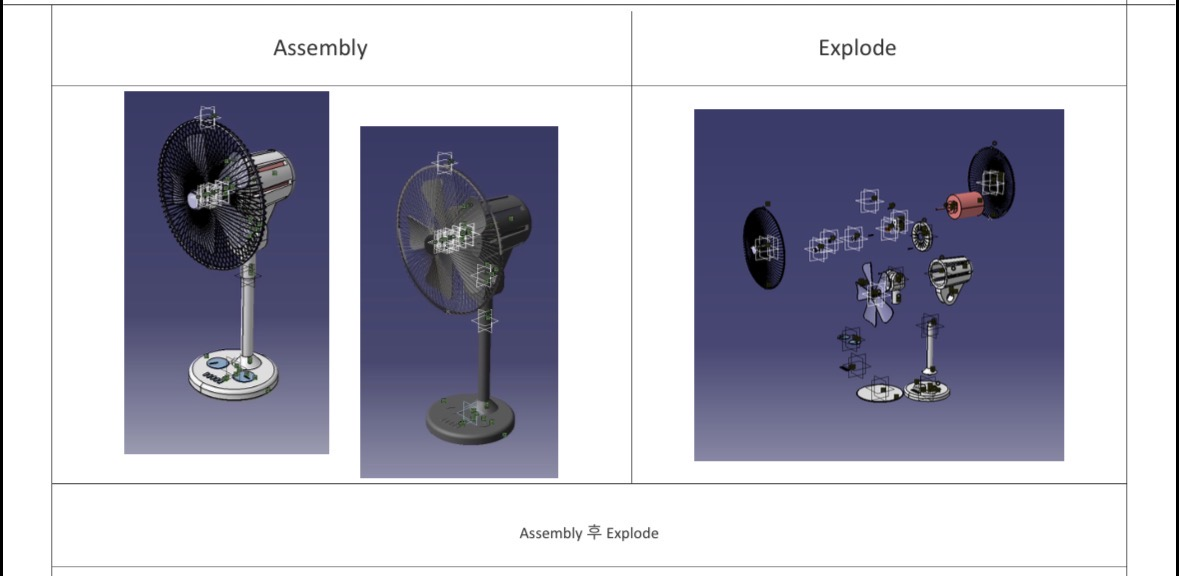
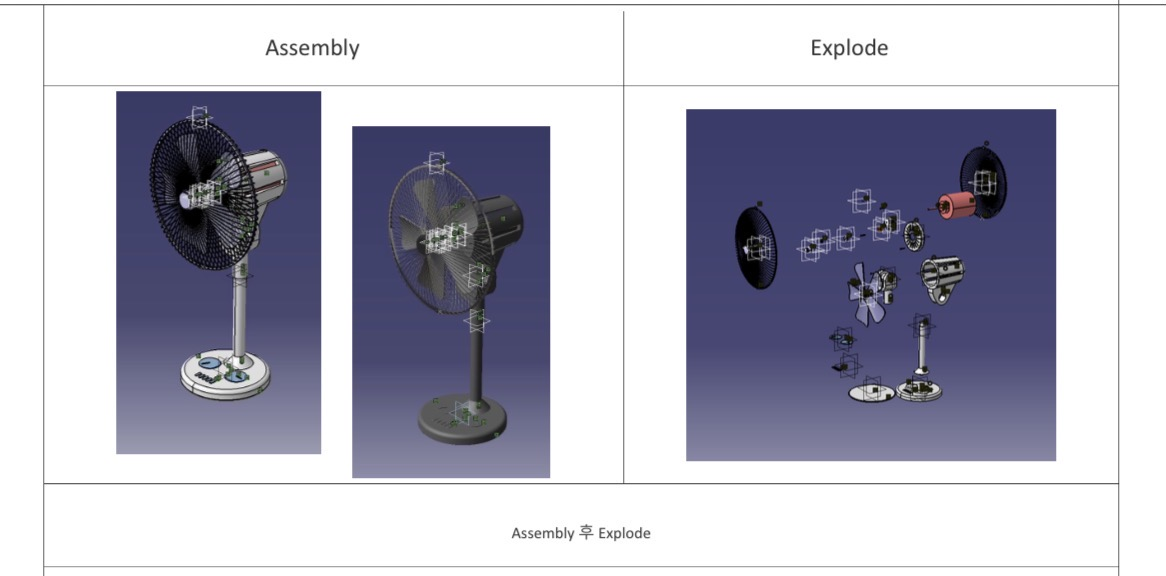
포트폴리오 콘텐츠 전면 보강 (Hero 영문화, 경험/프로젝트 상세화, 뒤로가기 통일)

diff --git a/capstone.html b/capstone.html
@@ -19,43 +19,55 @@
     </div>
 
     <div class="container">
-        <a href="projects.html" class="back-link">← Projects로 돌아가기</a>
+        <a href="javascript:history.back()" class="back-link">← 이전 목록으로 돌아가기</a>
 
-        <h2>캡스톤 디자인 - 자율주행 쓰레기통 수거차</h2>
-        <div class="entry-meta">팀장 · 2023.03 ~ 2023.07 · 한서대학교</div>
+      <h2>캡스톤 디자인 - 자율주행 쓰레기통 수거차</h2>
+<p class="meta">팀장 · 2023.03 ~ 2023.07 · 한서대학교</p>
 
+<p>
+    자율적으로 주제를 정해 진행하는 팀 프로젝트였습니다. 거리에 방치되는 쓰레기
+    문제를 해결하기 위해 쓰레기통을 늘리는 방안을 고민했는데, 자율주행으로 쓰레기통을
+    수거할 수 있다면 설치 확대에 대한 부담을 줄일 수 있다고 판단해 자율주행 쓰레기통
+    수거차를 제작하게 되었습니다.
+</p>
 
-        <p>
-            팀장으로서 자율주행 쓰레기통 수거차 제작 프로젝트를 총괄했습니다.
-            제한된 기간 안에 기계 설계, 센서 제어, 주행 로직을 모두 구현해야 했기에
-            팀원 간 역할 분담과 협업이 핵심 과제였습니다.
-        </p>
+<div class="info-box">
+    <strong>구현 방식</strong><br>
+    CATIA로 차체를 모델링하고 3D 프린터로 제작했으며, 라인트레이서로 주행하고
+    로봇팔로 쓰레기통을 수거하며 RGB·적외선 센서로 대상을 인식하는 방식으로
+    기능을 구현했습니다. 저는 CATIA를 이용한 차체 설계 및 ANSYS 안정성 검사,
+    로봇팔 구동을 위한 프로그래밍을 담당했습니다.
+</div>
 
-        <div class="info-box">
-            <strong>문제 상황</strong><br>
-            프로젝트 도중 핵심 부품이 세관 통관 문제로 입고가 불투명해지며 일정 지연 가능성이 커졌습니다.
-            기존 설계를 유지하자는 의견과 구조를 전면 수정하자는 의견이 팀 내에서 대립했습니다.
-        </div>
+<div class="info-box">
+    <strong>문제 상황</strong><br>
+    프로젝트 도중 핵심 부품이 세관 통관 문제로 입고가 불투명해지며 일정 지연
+    가능성이 커졌습니다. 기존 설계를 유지하자는 의견과 구조를 전면 수정하자는
+    의견이 팀 내에서 대립했습니다.
+</div>
 
-        <div class="info-box">
-            <strong>해결 과정</strong><br>
+<div class="info-box">
+    <strong>해결 과정</strong><br>
+    저는 구조적 안정성을 우선으로 하되 일정 내 구현 가능성을 함께 고려해 문제를
+    해결하고자 했습니다. 국내에서 수급 가능한 대체 부품의 사양을 비교하고, ANSYS를
+    활용해 하중 분포를 분석했습니다. 이후 실제 주행시험에서 나타난 곡선 주행 문제와
+    분석 결과를 함께 검토해 특정 부위에 하중이 집중되는 점을 확인하고, 차체 일부만
+    수정하는 방안을 제안해 팀원들과 합의를 이끌어냈습니다.
+</div>
 
-저는 구조적 안정성을 우선으로 하되 일정 내 구현 가능성을 함께 고려해 문제를
- 해결하고자 했습니다. 국내에서 수급 가능한 대체 부품의 사양을 비교하고, ANSYS를
- 활용해 하중 분포를 분석했습니다. 이후 실제 주행시험에서 나타난 곡선 주행 문제와
- 분석 결과를 함께 검토해 특정 부위에 하중이 집중되는 점을 확인하고, 차체 일부만
- 수정하는 방안을 제안해 팀원들과 합의를 이끌어냈습니다.
-        </div>
+<div class="info-box">
+    <strong>결과 및 배운 점</strong><br>
+    팀원들과 하나의 목표를 위해 협업하며 일정 내 프로젝트를 완수했고, 주행과 수거
+    기능을 안정적으로 구현했습니다. 협업은 단순히 의견을 맞추는 것이 아니라, 공동의
+    목표를 위해 명확한 기준을 세우고 서로 이해하며 최선의 방향을 만들어가는 과정이라는
+    점을 배웠습니다. 또한 이 프로젝트를 통해 기계와 전자를 복합적으로 이해하는 것의
+    중요성을 느꼈고, 이는 이후 무선설비기사 자격증 취득으로 이어졌습니다.
+</div>
 
-        <div class="info-box">
-            <strong>결과 및 배운 점</strong><br>
-            팀원들과 하나의 목표를 위해 협업하며 일정 내 프로젝트를 완수했고,
-            주행과 수거 기능을 안정적으로 구현했습니다. 협업은 단순히 의견을 맞추는 것이 아니라,
-            공동의 목표를 위해 명확한 기준을 세우고 서로 이해하며 최선의 방향을 만들어가는
-            과정이라는 점을 배웠습니다.
-        </div>
+<p><strong>담당 역할</strong>: 팀 총괄, CATIA를 활용한 차량 모델링, ANSYS 안정성 검사,
+로봇 집게팔 구동 로직 구현</p>
 
-        <p><strong>담당 역할</strong>: 팀 총괄, CATIA를 활용한 차량 모델링, 로봇 집게팔 구동 로직 구현</p>
+        
     </div>
 </body>
 

diff --git a/catia-fan.html b/catia-fan.html
@@ -19,32 +19,35 @@
     </div>
 
     <div class="container">
-        <a href="projects.html" class="back-link">← Projects로 돌아가기</a>
+        <a href="javascript:history.back()" class="back-link">← 이전 목록으로 돌아가기</a>
 
-        <h2>CATIA 선풍기 분해 설계 프로젝트</h2>
-        <div class="entry-meta">팀 과제 · 한서대학교</div>
+     <h2>CATIA 선풍기 분해 설계 프로젝트</h2>
+<p class="meta">팀 과제 · 한서대학교</p>
 
-<img src="catia-model.png" class="detail-photo" alt="CATIA 선풍기 Assembly 및 Explode 모델">
-        <p>
-            선풍기를 직접 분해하여 각 부품을 CATIA로 파트 디자인하고 최종적으로
-            조립까지 진행하는 팀 프로젝트였습니다. Shaft와 Blade 파트를 담당했습니다.
-        </p>
+<img src="catia-model.png" alt="CATIA 선풍기 Assembly 및 Explode 모델" style="max-width: 100%; height: auto; display: block; margin: 0 auto;">
 
-        <div class="info-box">
-            <strong>과정</strong><br>
-            프로젝트 도중 팀원의 건강 문제로 Motor 파트까지 추가로 담당하게 되면서
-            작업량이 크게 늘었습니다. 발표 직전 Assemble 과정에서 수치 오차를 발견했고,
-            긴박한 상황 속에서 문제를 찾아내 수정하여 완성도를 높였습니다.
-        </div>
+<p>
+    선풍기를 직접 분해하여 각 부품을 CATIA로 파트 디자인하고 최종적으로 조립까지
+    진행하는 팀 프로젝트였습니다. 원래 Shaft와 Blade 파트를 담당했습니다.
+</p>
 
-        <div class="info-box">
-            <strong>배운 점</strong><br>
-            복잡한 설계 작업을 진행하며 정밀한 수치 관리와 조립 검증의 중요성을 체감했습니다.
-            이 경험은 이후 업무 범위와 우선순위를 객관적으로 판단하고 체계적으로 관리하는
-            습관을 기르는 계기가 되었습니다.
-        </div>
+<div class="info-box">
+    <strong>과정</strong><br>
+    프로젝트 도중 팀원 사정으로 Motor와 Fan Cover 파트까지 추가로 담당하게
+    되었습니다. Motor는 상대적으로 구조가 단순해 금방 끝났지만, Fan Cover 는 예상보다
+    형상이 복잡해 작업 시간이 오래 걸렸고, 이로 인해 원래 담당하던 Shaft·Blade 작업
+    진행에도 영향을 미쳤습니다. 발표 직전 Assemble 과정에서 수치 오차를 발견했고,
+    긴박한 상황 속에서도 문제를 찾아내어 프로젝트를 성공적으로 완수했습니다.
+</div>
 
-        <p><strong>담당 역할</strong>: Shaft, Blade, Motor 파트 설계 및 전체 조립(Assemble) 검증</p>
+<div class="info-box">
+    <strong>배운 점</strong><br>
+    복잡한 설계 작업을 진행하며 정밀한 수치 관리와 조립 검증의 중요성을 체감했습니다.
+    이 경험은 이후 업무 범위와 우선순위를 객관적으로 판단하고 체계적으로 관리하는
+    습관을 기르는 계기가 되었습니다.
+</div>
+
+<p><strong>담당 역할</strong>: Shaft, Blade, Motor, Fan Cover 파트 설계 및 전체 조립(Assemble) 검증</p>
     </div>
 </body>
 

diff --git a/techschool.html b/techschool.html
@@ -19,27 +19,41 @@
     </div>
 
     <div class="container">
-        <a href="experience.html" class="back-link">← Experience로 돌아가기</a>
+        <a href="javascript:history.back()" class="back-link">← 이전 목록으로 돌아가기</a>
 
         <h2>한서대학교 항공기술교육원</h2>
-        <div class="entry-meta">2020.03 ~ 2023.06</div>
+<p class="meta">2020.03 ~ 2023.06</p>
 
-        <p>
-            대학 전공 수업과 병행하여 항공기술교육원 과정을 이수하며,
-            항공기 각 계통에 대한 이론 및 실습 교육을 받았습니다.
-        </p>
+<p>
+    대학 전공 수업과 병행하여 항공기술교육원 과정을 이수하며, 항공기 각 계통에 대한
+    이론 및 실습 교육을 받았습니다. 항공기술교육원은 국토교통부가 지정한 항공정비사
+    전문교육기관으로, 태안캠퍼스의 자체 B-737 격납고와 실습 시설을 기반으로 이론과
+    실무를 병행하는 과정으로 운영됩니다.
+</p>
 
-        <div class="info-box">
-            <strong>배운 것</strong><br>
-            매뉴얼을 꼼꼼히 확인하고 해석하는 역량을 길렀고, 작업 절차를 준수하는 기본기를
-            익혔습니다. 팀 단위 실습을 통해 정확한 의사소통과 협업의 중요성도 함께 배웠습니다.
-        </div>
+<div class="info-box">
+    <strong>실습 경험: J-47 터보엔진 분해·재조립 (6개 팀 중 1위)</strong><br>
+    5명이 한 팀을 이루어 J-47 터보엔진을 분해하고 재조립하는 정비 실습을 진행했습니다.
+    이 실습에는 정확성과 속도를 함께 측정해 팀별 순위를 매기는 평가가 포함돼 있었습니다.
+    매뉴얼대로만 하면 될 거라 생각했지만, 실제로는 각자 작업에 집중하는 사이 세부
+    사항을 놓치는 경우가 반복됐습니다. 그래서 제 작업이 끝난 뒤에도 다음 담당자와
+    체결 상태를 재확인하는 습관을 만들고, 팀 전체에도 진행 상황을 공유하자고
+    제안했습니다. 그 결과 오류가 눈에 띄게 줄었고, 총 6개 팀 중 저희 팀이 1위를
+    기록했습니다.
+</div>
 
-        <div class="info-box">
-            <strong>느낀 점</strong><br>
-            항공 정비는 꾸준한 학습을 통한 원리 이해와 절차 준수가 안전을 지키는 핵심이라는 점을
-            느꼈고, 이 경험을 바탕으로 항공정비사 자격증을 취득했습니다.
-        </div>
+<div class="info-box">
+    <strong>배운 것</strong><br>
+    매뉴얼을 꼼꼼히 확인하고 해석하는 역량을 길렀고, 작업 절차를 준수하는 기본기를
+    익혔습니다. 정확한 기술 못지않게, 그 기술을 팀 안에서 어떻게 확산시키느냐가
+    중요하다는 것도 배웠습니다.
+</div>
+
+<div class="info-box">
+    <strong>느낀 점</strong><br>
+    항공 정비는 꾸준한 학습을 통한 원리 이해와 절차 준수가 안전을 지키는 핵심이라는
+    점을 느꼈고, 이 경험을 바탕으로 항공정비사 자격증을 취득했습니다.
+</div>
     </div>
 </body>
 

diff --git a/palette.html b/palette.html
@@ -19,32 +19,39 @@
     </div>
 
     <div class="container">
-        <a href="experience.html" class="back-link">← Experience로 돌아가기</a>
+        <a href="javascript:history.back()" class="back-link">← 이전 목록으로 돌아가기</a>
 
         <h2>미술동아리 '팔레트' 총무</h2>
-        <div class="entry-meta">한서대학교 · 2022.03 ~ 2023.06</div>
+<p class="meta">한서대학교 · 2022.03 ~ 2023.06</p>
 
-        <p>
-            동아리를 공동 신설하며 창립 멤버 및 총무로 활동했습니다.
-        </p>
+<p>
+    미술동아리 '팔레트'를 공동 신설하며 창립 멤버 및 총무로 활동했습니다.
+    목표는 동아리를 안정적으로 운영하면서 규모를 키우는 것이었습니다.
+</p>
 
-        <div class="info-box">
-            <strong>맡은 역할</strong><br>
-            회비 관리와 예산 편성 등 재정 운영을 담당했으며,
-            회장단과 협력하여 다양한 프로젝트를 기획했습니다.
-        </div>
+<div class="info-box">
+    <strong>맡은 역할</strong><br>
+    회비 관리와 예산 편성 등 재정 운영을 담당했습니다. 엑셀로 회비와 지출 내역을
+    체계적으로 정리하고, 정기적인 예산 편성 계획을 세워 투명하게 회계를 관리했습니다.
+</div>
 
-        <div class="info-box">
-            <strong>과정</strong><br>
-            신입 부원이 기존 멤버들 사이에서 위축되지 않도록 배려하는 프로그램을 기획하고,
-            엑셀을 활용해 회계 내역을 체계적으로 관리했습니다.
-        </div>
+<div class="info-box">
+    <strong>과정</strong><br>
+    이렇게 다진 신뢰를 바탕으로, 회장단과 협력해 신입 부원 전용 소규모 프로젝트
+    비용을 별도로 편성했습니다. 신입 부원들이 큰 부담 없이 자기 아이디어를 실행해볼
+    수 있는 자리를 마련한 것입니다. 또한 신입과 기존 멤버가 자연스럽게 어울릴 수
+    있는 자리를 정기적으로 기획해, 신입 부원이 위축되지 않고 참여할 수 있도록
+    신경 썼습니다.
+</div>
 
-        <div class="info-box">
-            <strong>결과</strong><br>
-            초기 약 30명 규모였던 동아리를 졸업 시점에는 약 80명 규모로 성장시켰습니다.
-        </div>
-    </div>
+<div class="info-box">
+    <strong>결과 및 배운 점</strong><br>
+    초기 30명 규모였던 동아리를 졸업 시점에는 80명 규모로 성장시켰고, 규모가 커지는
+    동안에도 이탈률을 낮게 유지할 수 있었습니다. 화려한 아이디어 하나보다, 계획을
+    세우고 꾸준히 실행하고 관리하는 과정 자체가 목표 달성의 핵심이라는 것을
+    배웠습니다. 또한 조직이 성장하려면 새로 들어온 사람이 소외되지 않게 배려하는
+    것이 중요하다는 것도 느꼈습니다.
+</div>
 </body>
 
 </html>

diff --git a/trinity.html b/trinity.html
@@ -19,7 +19,7 @@
     </div>
 
     <div class="container">
-        <a href="experience.html" class="back-link">← Experience로 돌아가기</a>
+        <a href="javascript:history.back()" class="back-link">← 이전 목록으로 돌아가기</a>
 
         <h2>트리니티항공 정비기획 일경험 인턴</h2>
         <div class="entry-meta">2026.07 ~ 2026.08</div>

diff --git a/boeing.html b/boeing.html
@@ -19,7 +19,7 @@
     </div>
 
     <div class="container">
-        <a href="experience.html" class="back-link">← Experience로 돌아가기</a>
+       <a href="javascript:history.back()" class="back-link">← 이전 목록으로 돌아가기</a>
 
         <h2>Boeing 시애틀 공장 견학</h2>
         <div class="entry-meta">2025.10.22</div>

diff --git a/style.css b/style.css
@@ -424,3 +424,13 @@ section:nth-of-type(even) {
     width: 120px;
     height: 120px;
 }
+
+.back-link {
+    font-size: 0.9rem;
+    color: #8a8578;
+    text-decoration: none;
+}
+
+.back-link:hover {
+    text-decoration: underline;
+}
